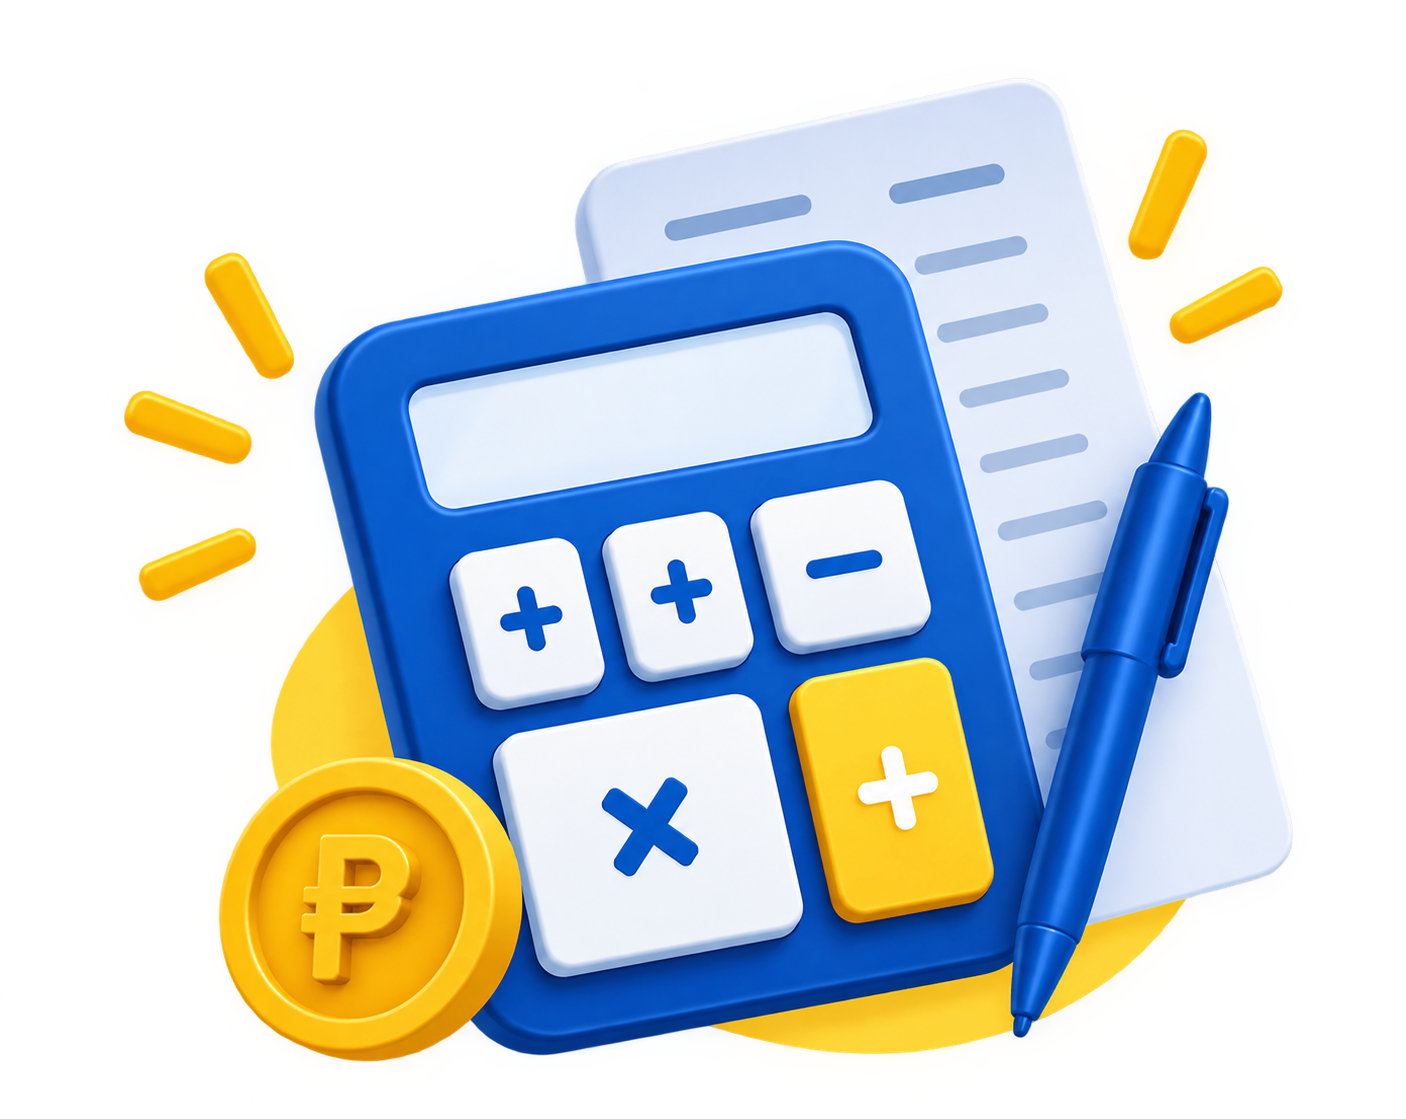
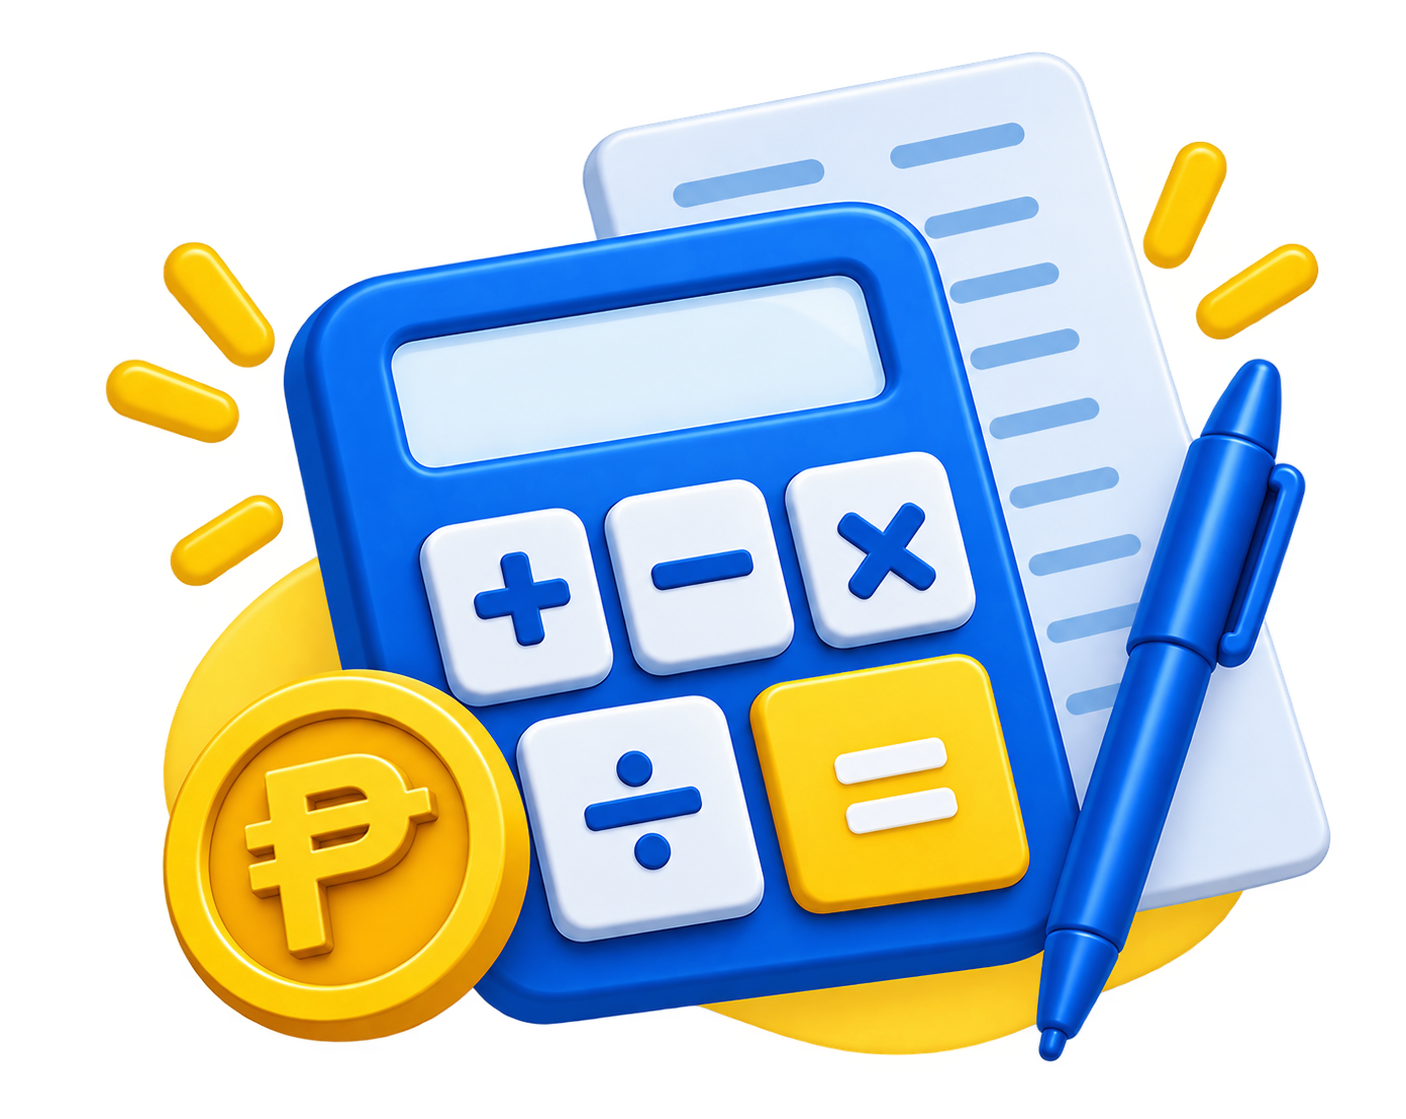
analytics: add Microsoft Clarity (env-gated, CSP allowlisted) + privacy disclosure; ui: hero layout and index hero image updates

diff --git a/app/privacy/page.tsx b/app/privacy/page.tsx
@@ -3,7 +3,7 @@
 export const metadata: Metadata = {
   title: "Privacy Policy",
   description:
-    "ComputePH privacy policy: no accounts, no tracking, calculations run in your browser, and your financial inputs are never stored.",
+    "ComputePH privacy policy: no accounts, calculations run in your browser, and your financial inputs are never stored.",
   alternates: { canonical: "/privacy" },
 };
 
@@ -29,12 +29,31 @@ export default function PrivacyPage() {
         </p>
 
         <h2 className="pt-2 text-xl font-semibold text-navy">
-          No accounts, no tracking
+          No accounts
         </h2>
         <p>
-          ComputePH has no user accounts and does not use analytics, cookies,
-          advertising trackers, or third-party scripts to follow you across the
-          web.
+          ComputePH has no user accounts, no advertising trackers, and no
+          scripts that follow you across other websites.
+        </p>
+
+        <h2 className="pt-2 text-xl font-semibold text-navy">Analytics</h2>
+        <p>
+          To understand how the site is used, ComputePH uses two analytics
+          tools: Vercel Web Analytics and Microsoft Clarity. They collect
+          basic usage data such as which pages are visited, approximate
+          country, device type (mobile or desktop), referring site, and
+          interactions on the page such as clicks and scrolls. Microsoft
+          Clarity can also record visits so that we can replay them to find
+          confusing or broken parts of the site, and it may set a first-party
+          cookie to keep a session together.
+        </p>
+        <p>
+          The amounts, salaries, and other values you type into the
+          calculators are processed in your browser as described above, and
+          Microsoft Clarity masks everything entered into input fields before
+          any data is sent to its servers, so your entries do not appear in
+          session recordings. Neither tool is used to identify you personally
+          or to show you advertisements.
         </p>
 
         <h2 className="pt-2 text-xl font-semibold text-navy">

diff --git a/next.config.ts b/next.config.ts
@@ -7,15 +7,18 @@ const isDev = process.env.NODE_ENV === "development";
 //   'unsafe-inline' (a nonce CSP would force every SSG page to dynamic rendering).
 // - React inline style attributes (clip-path etc.) require style-src 'unsafe-inline'.
 // - Fonts: next/font Geist (self-hosted). Images: local /public + /_next/image only.
-// - No external scripts, APIs, analytics, embeds, or fonts.
+// - Vercel Web Analytics loads first-party (/_vercel/...); Microsoft Clarity is the
+//   only third-party script (www.clarity.ms tag loader; stats POSTed to
+//   www.clarity.ms / *.clarity.ms; beacons from c.clarity.ms / c.bing.com; heatmap
+//   fonts as data: URLs — see https://learn.microsoft.com/clarity/setup-and-installation/clarity-csp).
 // - 'unsafe-eval' only in development (React debugging); production stays strict.
 const contentSecurityPolicy = [
   "default-src 'self'",
-  `script-src 'self' 'unsafe-inline'${isDev ? " 'unsafe-eval'" : ""}`,
+  `script-src 'self' 'unsafe-inline' https://www.clarity.ms https://scripts.clarity.ms https://*.clarity.ms${isDev ? " 'unsafe-eval'" : ""}`,
   "style-src 'self' 'unsafe-inline'",
-  "img-src 'self' blob: data:",
-  "font-src 'self'",
-  "connect-src 'self'",
+  "img-src 'self' blob: data: https://*.clarity.ms https://c.bing.com",
+  "font-src 'self' data:",
+  "connect-src 'self' https://www.clarity.ms https://*.clarity.ms https://c.bing.com",
   "object-src 'none'",
   "base-uri 'self'",
   "form-action 'self'",

diff --git a/tests/security.test.ts b/tests/security.test.ts
@@ -32,8 +32,20 @@ describe("security headers", () => {
     expect(csp).toContain("font-src 'self'");
     // Test runs without NODE_ENV=development: production must never allow eval.
     expect(csp).not.toContain("unsafe-eval");
-    // No third-party origins: the app loads nothing external.
-    expect(csp).not.toMatch(/https?:\/\//);
+    // The only external origins allowed are Microsoft Clarity's; any other
+    // third-party origin in the CSP fails this test.
+    const clarityOrigins = new Set([
+      "https://www.clarity.ms",
+      "https://scripts.clarity.ms",
+      "https://*.clarity.ms",
+      "https://c.bing.com",
+    ]);
+    for (const origin of csp.match(/https?:\/\/[^\s;]+/g) ?? []) {
+      expect(clarityOrigins.has(origin), `unexpected CSP origin: ${origin}`).toBe(
+        true,
+      );
+    }
+    expect(csp).toContain("https://www.clarity.ms");
   });
 
   it("sets the standard hardening headers", async () => {

diff --git a/app/calculators/[slug]/page.tsx b/app/calculators/[slug]/page.tsx
@@ -158,7 +158,7 @@ export default async function CalculatorPage({ params }: Props) {
         ]}
       />
 
-      <header className="mt-5 xl:grid xl:grid-cols-[minmax(0,1fr)_auto] xl:items-start xl:gap-10">
+      <header className="mt-5 xl:grid xl:grid-cols-[max-content_auto] xl:justify-start xl:items-start xl:gap-16">
         <div className="max-w-3xl">
           <Link
             href={`/calculators/#${category.anchor}`}
@@ -186,7 +186,7 @@ export default async function CalculatorPage({ params }: Props) {
           width={art.w}
           height={art.h}
           sizes="(min-width: 1536px) 360px, 300px"
-          className="mt-1 hidden h-auto w-[300px] select-none xl:block 2xl:w-[360px]"
+          className="mt-1 hidden h-auto w-[420px] select-none xl:block 2xl:w-[520px]"
         />
       </header>
 

diff --git a/components/analytics/Clarity.tsx b/components/analytics/Clarity.tsx
@@ -1,0 +1,15 @@
+"use client";
+
+import Script from "next/script";
+
+const CLARITY_PROJECT_ID = process.env.NEXT_PUBLIC_CLARITY_PROJECT_ID;
+
+export default function Clarity() {
+  if (!CLARITY_PROJECT_ID) return null;
+
+  return (
+    <Script id="ms-clarity" strategy="afterInteractive">
+      {`(function(c,l,a,r,i,t,y){if(c[a])return;c[a]=c[a]||function(){(c[a].q=c[a].q||[]).push(arguments)};t=l.createElement(r);t.async=1;t.src="https://www.clarity.ms/tag/"+i;y=l.getElementsByTagName(r)[0];y.parentNode.insertBefore(t,y);})(window,document,"clarity","script","${CLARITY_PROJECT_ID}");`}
+    </Script>
+  );
+}

diff --git a/app/layout.tsx b/app/layout.tsx
@@ -2,6 +2,7 @@ import type { Metadata } from "next";
 import { Geist, Geist_Mono } from "next/font/google";
 import { Analytics } from "@vercel/analytics/react";
 import "./globals.css";
+import Clarity from "@/components/analytics/Clarity";
 import SiteHeader from "@/components/layout/SiteHeader";
 import SiteFooter from "@/components/layout/SiteFooter";
 import {
@@ -70,6 +71,7 @@ export default function RootLayout({ children }: LayoutProps<"/">) {
         </main>
         <SiteFooter />
         <Analytics />
+        <Clarity />
       </body>
     </html>
   );
